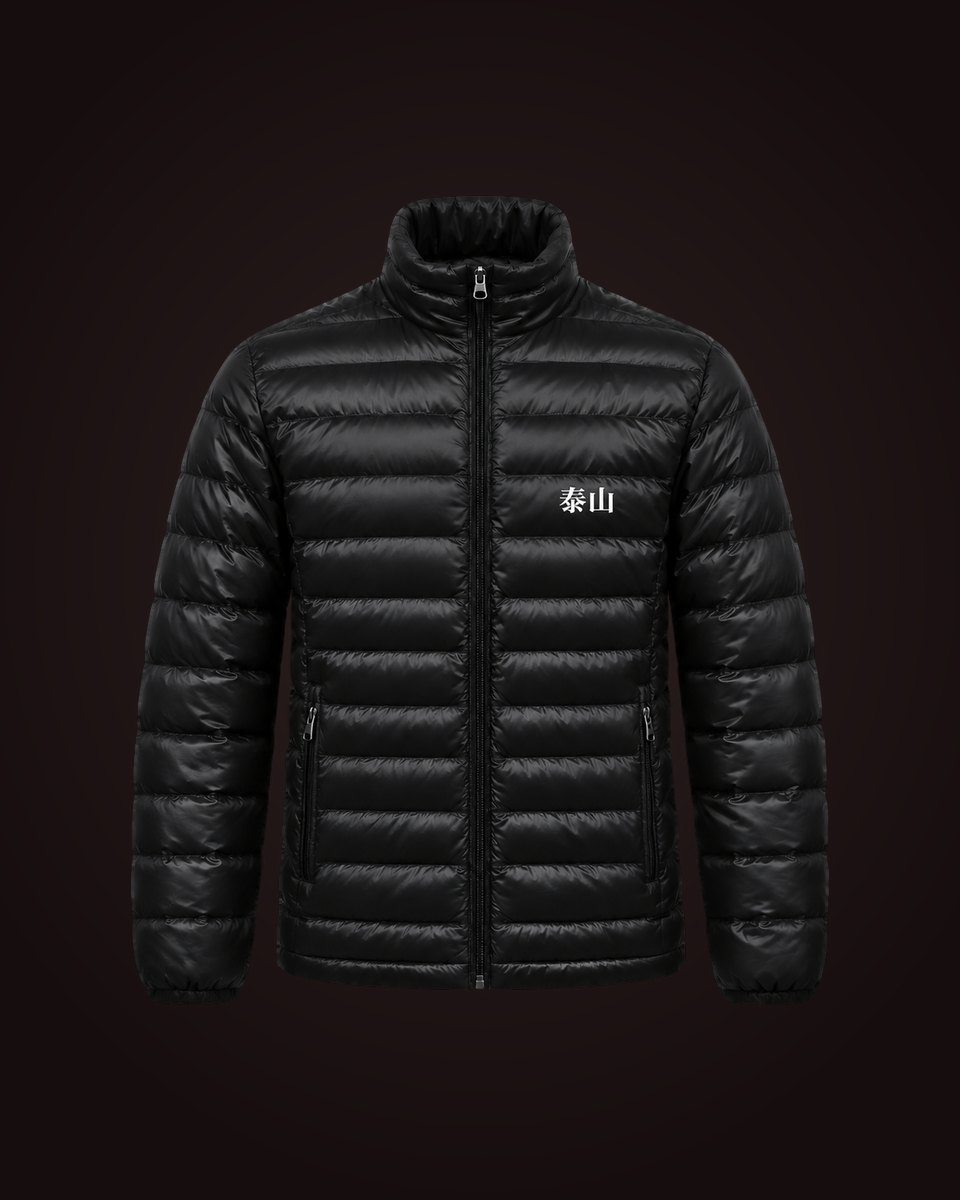
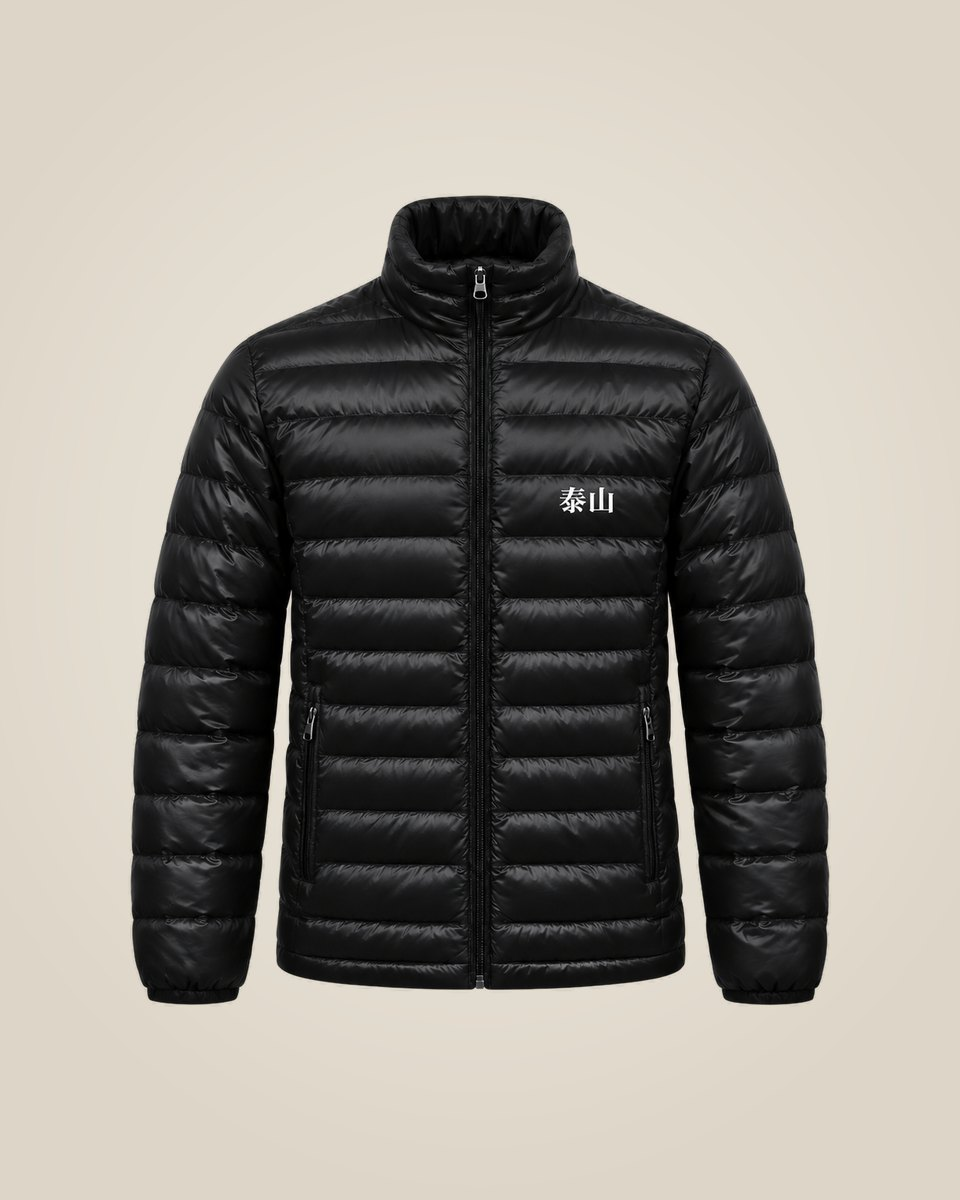
상품 사진 배경을 크림색으로 (사이트 배경에 맞춤)
Claude-Session: https://claude.ai/code/session_01HadeYzTA5j9kuAi99yKYfm

diff --git a/index.html b/index.html
@@ -1396,7 +1396,7 @@
   #shop .grid{gap:56px 28px; padding-top:0;}
   #shop .card{background:transparent; border:0; padding:0; text-align:center;}
   #shop .card-visual{background:var(--surface); border:1px solid var(--line); padding:14px; outline:none !important;}
-  #shop .card-visual > img.card-img{background:#170f10;}
+  #shop .card-visual > img.card-img{background:#e9e3d8;}
   #shop .card:hover .card-visual{outline:none; border-color:var(--text);}
   #shop .card-tag{padding:18px 0 0; align-items:center;}
   #shop .card-top{justify-content:center;}
